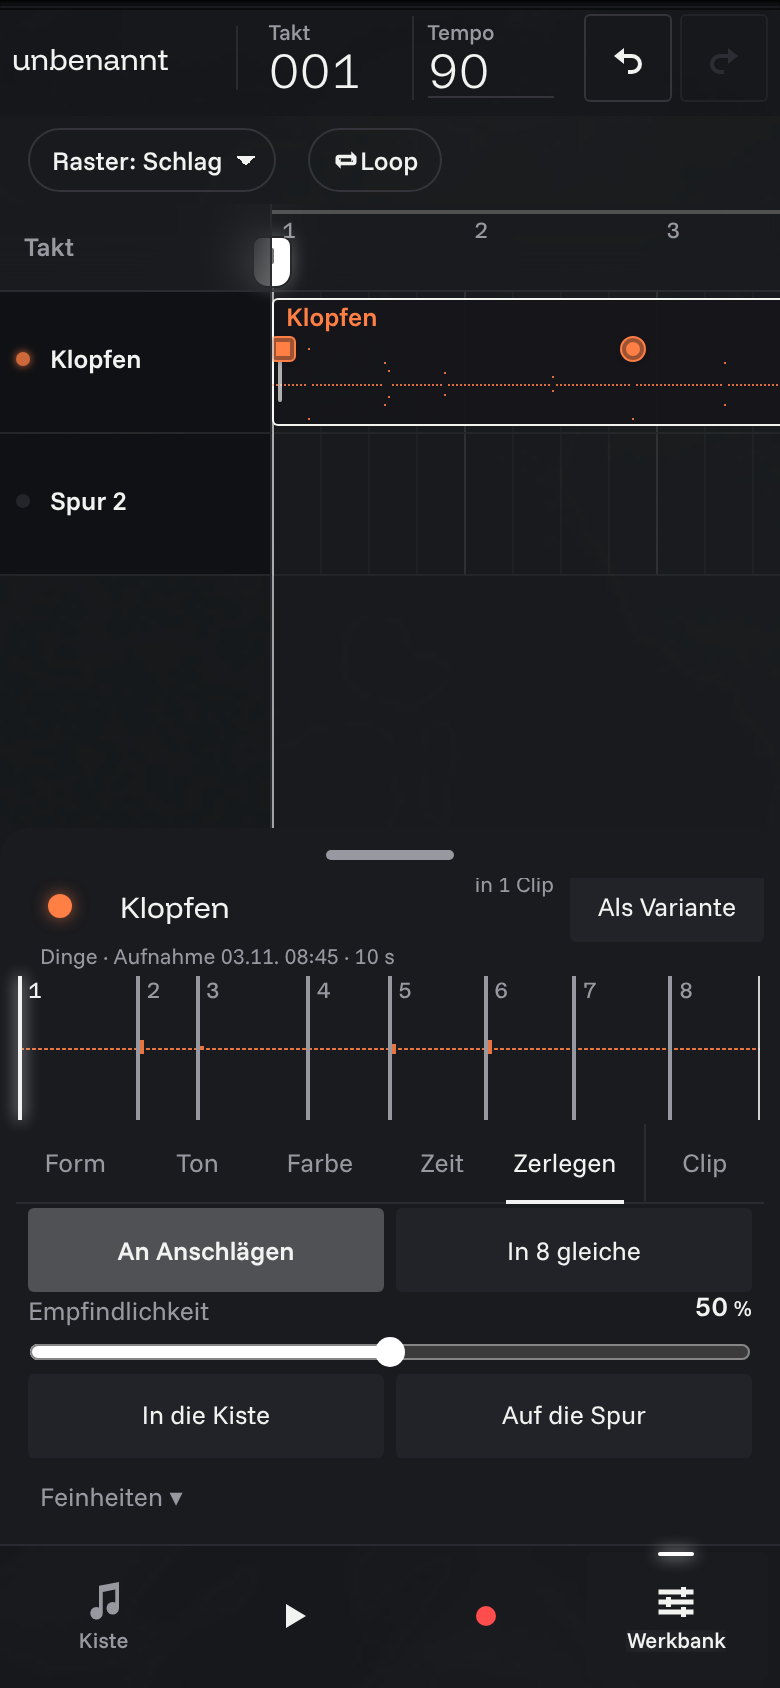
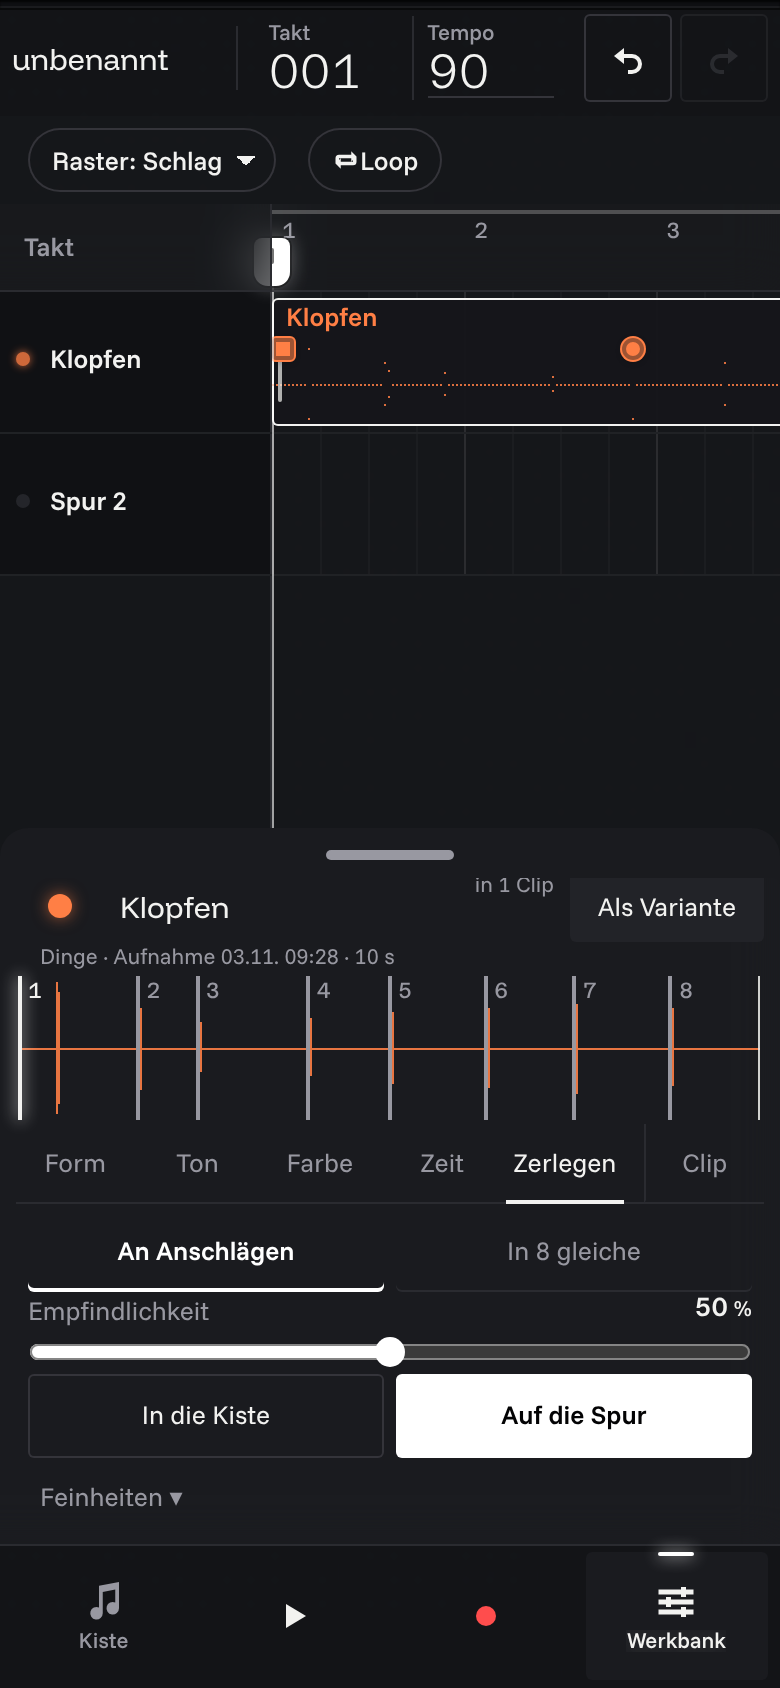
Krachwerk 2b: Auflagen der CD-Durchsicht
- Welle im Reiter Zerlegen: Hüllkurve in dB als gefüllte Fläche – leise
  Schläge sichtbar, Empfindlichkeit wirkt sichtbar
- „Auf die Spur“ einzige gefüllte Weißglut-Fläche, „In die Kiste“ Linie;
  gewählter Umschalter in Weißglut
- Schnitt-Clips mit Nummer vorn („4 · Klopfen“, schmal nur „4“)
- Einblender über der 56-px-Schublade, verdeckt ihren Kopf nicht
- tests/werkstatt.test.cjs 145; Bilder Form und roh/geformt neu

Claude-Session: https://claude.ai/code/session_011dt3cfyoFbmfWywTqCQhnG

diff --git a/index.html b/index.html
@@ -2966,6 +2966,13 @@
   #app[data-density="calm"] .wb-prog { height: 2px; margin: 0 -4px; background: var(--line); }
   #app[data-density="calm"] .wb-prog > i { display: block; height: 100%; width: 0; background: var(--ink); transition: width .2s linear; }
   #app[data-density="calm"] .wb-acts-2 .wb-btn { flex: 1 1 0; }
+  /* Gewicht (CD 2b): gewählter Umschalter in Weißglut mit Linie, „Auf die Spur“ die einzige gefüllte Fläche, „In die Kiste“ eine Linie */
+  #app[data-density="calm"] .wb-toggle { background: transparent; color: var(--muted); box-shadow: inset 0 -1px 0 var(--line); }
+  #app[data-density="calm"] .wb-toggle[aria-pressed="true"] { background: transparent; color: var(--amber); font-weight: 600; box-shadow: inset 0 -2px 0 var(--amber); }
+  #app[data-density="calm"] #wb-cut-box { background: transparent; box-shadow: inset 0 0 0 1px var(--key-line); }
+  #app[data-density="calm"] #wb-cut-track { background: var(--amber); color: var(--accent-ink); font-weight: 600; }
+  #app[data-density="calm"] #wb-cut-track:hover:not(:disabled) { background: var(--amber); }
+  #app[data-density="calm"] #wb-cut-track:disabled, #app[data-density="calm"] #wb-cut-box:disabled { opacity: 0.4; }
   #app[data-density="calm"] .wb-count-row { grid-template-columns: minmax(0, 1fr) auto; align-items: center; }
   #app[data-density="calm"] .wb-count-row .wb-seg { flex-wrap: nowrap; }
   #app[data-density="calm"] .wb-count-row .wb-seg .wb-btn { flex: 0 0 auto; min-width: 44px; padding: 0 10px; }
@@ -3058,6 +3065,7 @@
     #app[data-density="calm"] #werkbank.is-head .sheet-grip { height: 20px; } /* Griff 20 + Kopfzeile 36 = 56 px */
     #app[data-density="calm"] .hint { pointer-events: none; } /* der Einblender deckt sonst den Griff der 56-px-Schublade */
     #app[data-density="calm"] .hint-done { pointer-events: auto; }
+    #app[data-density="calm"]:has(#werkbank.is-head:not([hidden])) .hint { margin-bottom: 68px; } /* über der Kopfzeile, nicht darauf */
     #app[data-density="calm"] .tabbar { min-height: 64px; align-items: stretch; }
     #app[data-density="calm"] .tab-werkbank { display: grid; }
     #app[data-density="calm"] .tabbar > .tab, #app[data-density="calm"] .tabbar > .key { min-height: 56px; height: 100%; width: 100%; min-width: 0; border-radius: var(--radius); }

diff --git a/src/ui/wave-handles.js b/src/ui/wave-handles.js
@@ -303,7 +303,23 @@ export function mountWaveHandles(container, { store, library, engine, ui }) {
     const norm = Math.max(0.1, ...op);
     const amp = (p) => Math.max(0.5, Math.min(mid - 3, (p / norm) * (mid - 6)));
     c.fillStyle = color;
-    for (let x = 0; x < W; x += 3) {
+    if (M) {
+      // Zerlegen: Hüllkurve in dB (Boden −48 dB) als gefüllte Fläche; leise Schläge bleiben sichtbar
+      const ref = Math.max(1e-4, ...op);
+      for (let x = 0; x < W; x++) {
+        const t = (x / W) * dur;
+        const ot = r.reverse ? dur - t : t;
+        const k0 = Math.min(BUCKETS - 1, Math.floor((ot / dur) * BUCKETS));
+        const k1 = Math.min(BUCKETS - 1, Math.max(k0, Math.floor((((x + 1) / W) * dur / dur) * BUCKETS)));
+        let m = 0;
+        for (let k = Math.min(k0, k1); k <= Math.max(k0, k1); k++) m = Math.max(m, op[k]);
+        const f = Math.max(0, Math.min(1, (20 * Math.log10(Math.max(m, 1e-6) / ref) + 48) / 48));
+        const a = Math.max(0.5, f * (mid - 3));
+        c.globalAlpha = x >= x0 && x < x1 ? 0.9 : 0.3;
+        c.fillRect(x, Math.round(mid - a), 1, Math.max(1, Math.round(2 * a)));
+      }
+    }
+    for (let x = 0; !M && x < W; x += 3) {
       const inside = x >= x0 && x < x1;
       if (inside) {
         // gebackene Welle über die Breite des Ausschnitts (folgt schon der Abspielrichtung)

diff --git a/src/ui/arranger.js b/src/ui/arranger.js
@@ -681,7 +681,10 @@ export function mountArranger({ root, store, engine, library, ui, grainWave = fa
     node.style.left = clip.startBeat * ppb() + 'px';
     node.style.width = clip.lengthBeats * ppb() + 'px';
     node.classList.toggle('selected', ui.selectedIds().includes(clip.id));
-    const label = el('span', 'clip-label', sample?.name ?? 'Fehlendes Sample');
+    // Schnitte eines Zerlegens („Klopfen · 4“): Nummer vorn, bei schmalen Clips nur die Nummer
+    const cutName = sample?.group && /^(.*) · (\d+)$/.exec(sample.name);
+    const label = el('span', 'clip-label', cutName ? (clip.lengthBeats * ppb() < 72 ? cutName[2] : `${cutName[2]} · ${cutName[1]}`) : sample?.name ?? 'Fehlendes Sample');
+    if (cutName) label.title = sample.name;
     if (sample?.patternId) label.append(el('span', 'clip-tag', 'Pattern'));
     if (clip.stretch) label.append(el('span', 'clip-tag', `×${String(clip.stretch).replace('.', ',')}`));
     const canvas = el('canvas', 'clip-wave');
